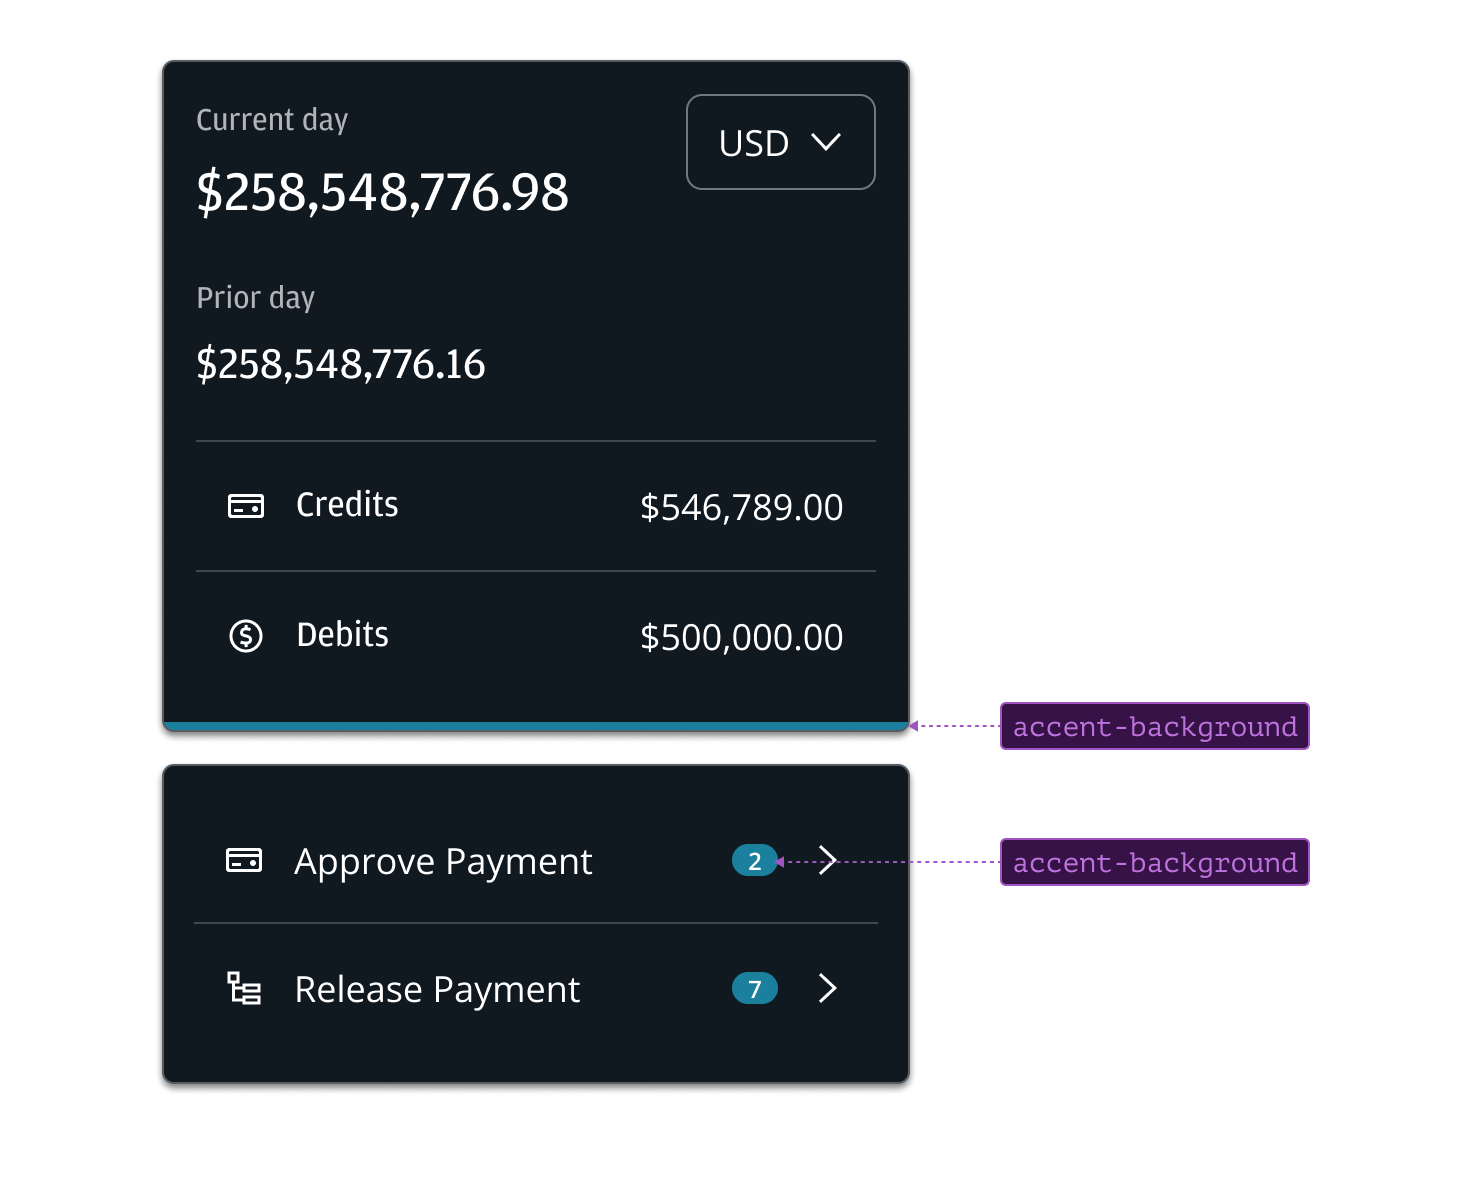
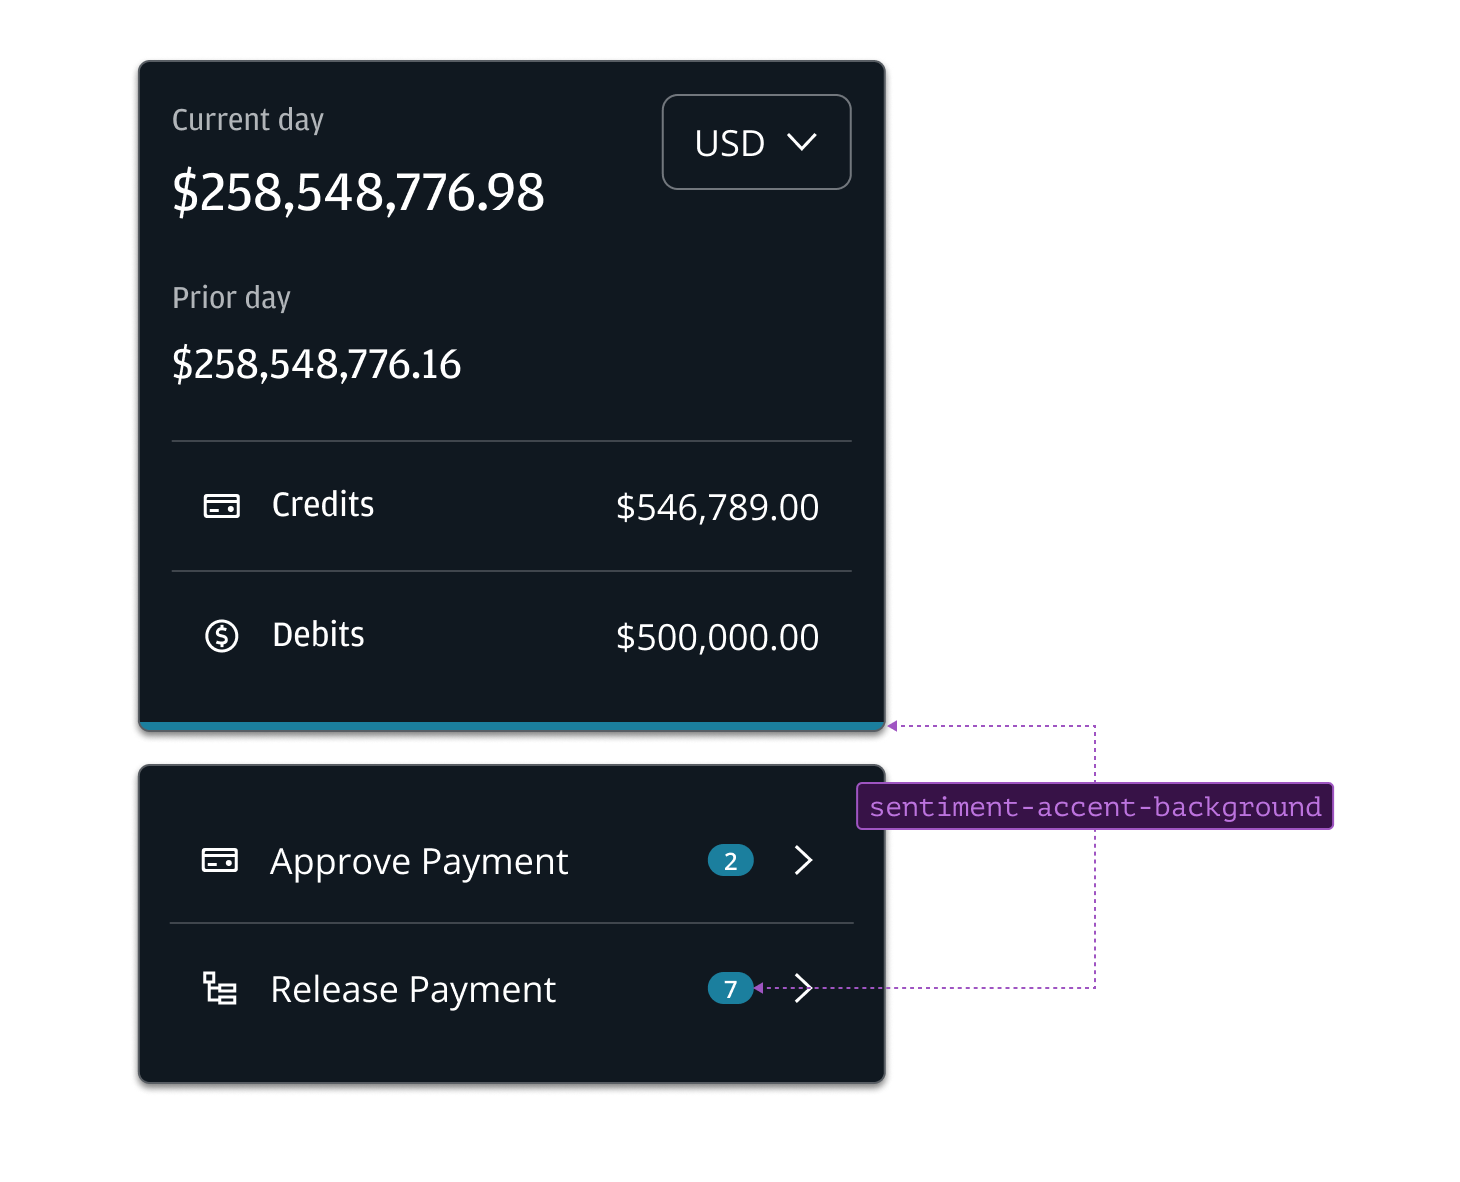
Move accent characteristic tokens to sentiment (#6162)

Changed region(s): [[0.4007, 0.0305, 0.9247, 0.9442], [0.0925, 0.0305, 0.4007, 0.9442], [0.1541, 0.3959, 0.2774, 0.4569]]

diff --git a/packages/core/src/progress/CircularProgress/CircularProgress.css b/packages/core/src/progress/CircularProgress/CircularProgress.css
@@ -35,13 +35,13 @@
   box-sizing: border-box;
 }
 .saltCircularProgress-bar {
-  border-color: var(--salt-accent-background);
+  border-color: var(--salt-sentiment-accent-background);
   border-style: var(--salt-borderStyle-solid);
   border-width: var(--salt-size-bar-strong);
 }
 .saltCircularProgress-bufferBorder {
-  border: solid var(--salt-size-fixed-100) var(--salt-accent-background);
-  outline: solid var(--salt-size-fixed-100) var(--salt-accent-background);
+  border: solid var(--salt-size-fixed-100) var(--salt-sentiment-accent-background);
+  outline: solid var(--salt-size-fixed-100) var(--salt-sentiment-accent-background);
   outline-offset: calc(var(--salt-size-bar-strong) * -1);
 }
 
@@ -98,7 +98,7 @@
 .saltCircularProgress-bufferOverlayRight:before,
 .saltCircularProgress-bufferSubOverlay:before {
   content: "";
-  background: var(--salt-accent-background);
+  background: var(--salt-sentiment-accent-background);
   position: absolute;
   right: 0;
   width: var(--salt-size-fixed-100);

diff --git a/packages/lab/src/contact-details/ContactDetails.css b/packages/lab/src/contact-details/ContactDetails.css
@@ -37,7 +37,7 @@
 .saltContactDetails {
   --contactDetails-color: var(--salt-content-primary-foreground);
   --contactDetails-label-color: var(--salt-content-secondary-foreground);
-  --contactDetails-noAvatar-color: var(--salt-accent-background);
+  --contactDetails-noAvatar-color: var(--salt-sentiment-accent-background);
   --contactDetails-noAvatar-indicator-width: 4px;
   --contactDetails-favoriteToggle-fill: var(--contactDetails-deselected-icon-color);
   --contactDetails-favoriteToggle-marginRight: 0px;
@@ -261,7 +261,7 @@
 }
 
 .saltContactFavoriteToggle-deselected {
-  --contactDetails-favoriteToggle-fill: var(--salt-accent-borderColor);
+  --contactDetails-favoriteToggle-fill: var(--salt-sentiment-accent-borderColor);
 }
 
 .saltContactFavoriteToggle-selecting {

diff --git a/packages/lab/src/calendar/internal/CalendarDay.css b/packages/lab/src/calendar/internal/CalendarDay.css
@@ -285,7 +285,7 @@
   box-sizing: border-box;
   height: var(--calendar-day-highlight-size); /* TODO: change for size-modifier when available */
   width: var(--calendar-day-highlight-size);
-  background: var(--salt-accent-background);
+  background: var(--salt-sentiment-accent-background);
   position: absolute;
   clip-path: polygon(100% 0, 100% 100%, 0 0);
   z-index: var(--calendar-day-zIndex-highlight);
@@ -307,7 +307,7 @@
   display: block;
   width: calc(100% - calc(var(--salt-spacing-50) * 2));
   height: var(--salt-size-indicator);
-  background: var(--salt-accent-borderColor);
+  background: var(--salt-sentiment-accent-borderColor);
   border-radius: var(--salt-palette-corner-weak);
   position: absolute;
   bottom: var(--salt-spacing-50);

diff --git a/packages/core/src/interactable-card/InteractableCard.css b/packages/core/src/interactable-card/InteractableCard.css
@@ -10,7 +10,7 @@
   text-align: start;
   transition: box-shadow var(--salt-duration-instant) ease-in-out;
   overflow: hidden;
-  --card-accent-color: var(--salt-accent-background);
+  --card-accent-color: var(--salt-sentiment-accent-background);
 }
 
 /* Styles applied to InteractableCard when variant="primary" */
@@ -112,7 +112,7 @@
   color: var(--salt-content-primary-foreground-disabled);
   cursor: var(--salt-cursor-disabled);
   outline: none;
-  --card-accent-color: var(--salt-accent-background-disabled);
+  --card-accent-color: var(--salt-sentiment-accent-background-disabled);
 }
 
 /* Styles applied to InteractableCard primary variant if `disabled={true}` */

diff --git a/packages/core/src/progress/LinearProgress/LinearProgress.css b/packages/core/src/progress/LinearProgress/LinearProgress.css
@@ -28,14 +28,14 @@
 .saltLinearProgress-buffer {
   width: 0;
   background: var(--salt-container-primary-background);
-  outline: solid var(--salt-size-fixed-100) var(--salt-accent-background);
+  outline: solid var(--salt-size-fixed-100) var(--salt-sentiment-accent-background);
   z-index: var(--salt-zIndex-default);
   outline-offset: calc(var(--salt-size-fixed-100) * -1);
 }
 
 .saltLinearProgress-bar {
   width: 100%;
-  background: var(--salt-accent-background);
+  background: var(--salt-sentiment-accent-background);
   z-index: calc(var(--salt-zIndex-default) * 2);
 }
 

diff --git a/packages/theme/css/next/deprecated/characteristics.css b/packages/theme/css/next/deprecated/characteristics.css
@@ -146,6 +146,9 @@
 
   --salt-accent-foreground: var(--salt-palette-foreground-primary-alt);
   --salt-accent-borderColor-disabled: var(--salt-palette-accent-disabled);
+  --salt-accent-background: var(--salt-palette-accent);
+  --salt-accent-background-disabled: var(--salt-palette-accent-disabled);
+  --salt-accent-borderColor: var(--salt-palette-accent);
 
   --salt-content-foreground-highlight: var(--salt-palette-accent-weaker);
   --salt-content-foreground-active: var(--salt-palette-accent-stronger);

diff --git a/packages/theme/css/legacy/characteristics/sentiment.css b/packages/theme/css/legacy/characteristics/sentiment.css
@@ -12,4 +12,8 @@
   --salt-sentiment-positive-dataviz: var(--salt-palette-success-foreground-decorative);
   --salt-sentiment-neutral-dataviz: var(--salt-palette-neutral-secondary-foreground);
   --salt-sentiment-accent-dataviz: var(--salt-palette-warning-foreground-decorative);
+
+  --salt-sentiment-accent-background: var(--salt-palette-accent);
+  --salt-sentiment-accent-background-disabled: var(--salt-palette-accent-disabled);
+  --salt-sentiment-accent-borderColor: var(--salt-palette-accent);
 }

diff --git a/packages/core/src/spinner/svgSpinners/SpinnerSVG.tsx b/packages/core/src/spinner/svgSpinners/SpinnerSVG.tsx
@@ -75,7 +75,7 @@ export const SpinnerSVG = ({
           d={`M${width - strokeWidth / 2},${
             width / 2
           } a${radius},${radius} 0 1,0 -${width - strokeWidth},0`}
-          stroke="var(--saltSpinner-gradient-color, var(--salt-accent-background)"
+          stroke="var(--saltSpinner-gradient-color, var(--salt-sentiment-accent-background)"
           strokeWidth="var(--spinner-strokeWidth)"
           fill="none"
         />

diff --git a/packages/theme/css/next/characteristics/sentiment.css b/packages/theme/css/next/characteristics/sentiment.css
@@ -12,4 +12,8 @@
   --salt-sentiment-positive-dataviz: var(--salt-palette-positive);
   --salt-sentiment-neutral-dataviz: var(--salt-palette-neutral);
   --salt-sentiment-accent-dataviz: var(--salt-palette-accent);
+
+  --salt-sentiment-accent-background: var(--salt-palette-accent);
+  --salt-sentiment-accent-background-disabled: var(--salt-palette-accent-disabled);
+  --salt-sentiment-accent-borderColor: var(--salt-palette-accent);
 }

diff --git a/packages/react-resizable-panels-theme/stories/react-resizable-panels-theme.qa.stories.tsx b/packages/react-resizable-panels-theme/stories/react-resizable-panels-theme.qa.stories.tsx
@@ -64,7 +64,7 @@ export function Variants() {
           boxSizing: "border-box",
           border: "1px solid lightgrey",
           // Background color to test transparent panels
-          backgroundColor: "var(--salt-accent-background)",
+          backgroundColor: "var(--salt-sentiment-accent-background)",
         }}
       >
         <Panel className="resizable-panel-salt-variant-primary">

diff --git a/packages/lab/stories/date-picker/date-picker.stories.css b/packages/lab/stories/date-picker/date-picker.stories.css
@@ -20,5 +20,5 @@
   bottom: calc(var(--salt-size-indicator) * 1.5);
   left: calc(var(--salt-size-indicator) * 1.5);
   right: calc(var(--salt-size-indicator) * 1.5);
-  border-bottom: var(--salt-size-indicator) var(--salt-borderStyle-solid) var(--salt-accent-borderColor);
+  border-bottom: var(--salt-size-indicator) var(--salt-borderStyle-solid) var(--salt-sentiment-accent-borderColor);
 }

diff --git a/packages/theme/css/deprecated/characteristics.css b/packages/theme/css/deprecated/characteristics.css
@@ -90,6 +90,9 @@
 
   /* Accent */
   --salt-accent-fontWeight: var(--salt-typography-fontWeight-semiBold); /* Use --salt-text-notation-fontWeight */
+  --salt-accent-background: var(--salt-palette-accent);
+  --salt-accent-background-disabled: var(--salt-palette-accent-disabled);
+  --salt-accent-borderColor: var(--salt-palette-accent);
 
   /* Track */
   --salt-track-borderStyle: solid;
